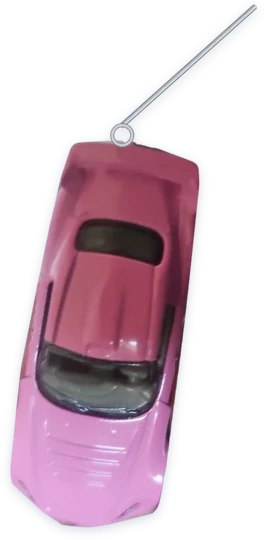
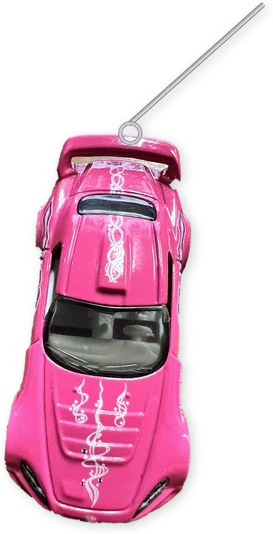
Suki charm: sharp straight-down photo of the loose Hot Wheels S2000
Source: eBay listing 287690274216 (1600px, on a wood table). Cut out by colour,
headlights recovered, hung from the tail. Adds tools/keychain/bake_crop.py.

Claude-Session: https://claude.ai/code/session_01NL2CSJLjtWH7qaAE7ZtJhZ

diff --git a/keychain.js b/keychain.js
@@ -24,7 +24,7 @@
     { src: "keychain/01suki.webp", amp: 3, order: 0 },    // Suki S2000 Hot Wheels, top-down (real photo of the loose car)
     { src: "keychain/00padlock.webp", top: true },
   ];
-  const BOX = {"00padlock.webp": [42.333, 1.917, 16.0, 36.5], "01suki.webp": [29.167, 33.917, 22.0, 45.0], "02branding.webp": [34.083, 34.25, 23.75, 58.333], "03editorial.webp": [42.667, 34.167, 24.0, 64.083], "04photoworks.webp": [48.167, 33.917, 29.083, 64.583], "05illustration.webp": [47.917, 33.75, 31.833, 37.917], "06photo.webp": [33.667, 33.917, 30.75, 54.083]};
+  const BOX = {"00padlock.webp": [42.333, 1.917, 16.0, 36.5], "01suki.webp": [28.5, 34.083, 22.75, 44.5], "02branding.webp": [34.083, 34.25, 23.75, 58.333], "03editorial.webp": [42.667, 34.167, 24.0, 64.083], "04photoworks.webp": [48.167, 33.917, 29.083, 64.583], "05illustration.webp": [47.917, 33.75, 31.833, 37.917], "06photo.webp": [33.667, 33.917, 30.75, 54.083]};
   const SWING = 30;          // degrees the other charms move aside
   const PERIOD = 3600, BOB = 4, REF = 461;
   const K = 170, D = 15;     // spring stiffness / damping: settles in ~0.8 s with a small overshoot

diff --git a/tools/keychain/bake_crop.py b/tools/keychain/bake_crop.py
@@ -1,0 +1,12 @@
+"""Bake the soft drop shadow into a 1200-square charm layer, crop it to its bounds,
+and print its BOX entry (left, top, width, height as % of the square) for keychain.js."""
+import sys
+from PIL import Image, ImageFilter
+src, dst = sys.argv[1], sys.argv[2]
+im = Image.open(src).convert('RGBA')
+sh = im.getchannel('A').point(lambda v: int(v * 0.18)).filter(ImageFilter.GaussianBlur(5))
+shadow = Image.new('RGBA', im.size, (0, 0, 0, 0)); shadow.putalpha(sh)
+out = Image.new('RGBA', im.size, (0, 0, 0, 0)); out.alpha_composite(shadow, (3, 3)); out.alpha_composite(im)
+l, t, r, b = out.getchannel('A').point(lambda v: 255 if v > 2 else 0).getbbox()
+out.crop((l, t, r, b)).save(dst, 'WEBP', quality=92, method=6)
+print([round(v / 12, 3) for v in (l, t, r - l, b - t)])
